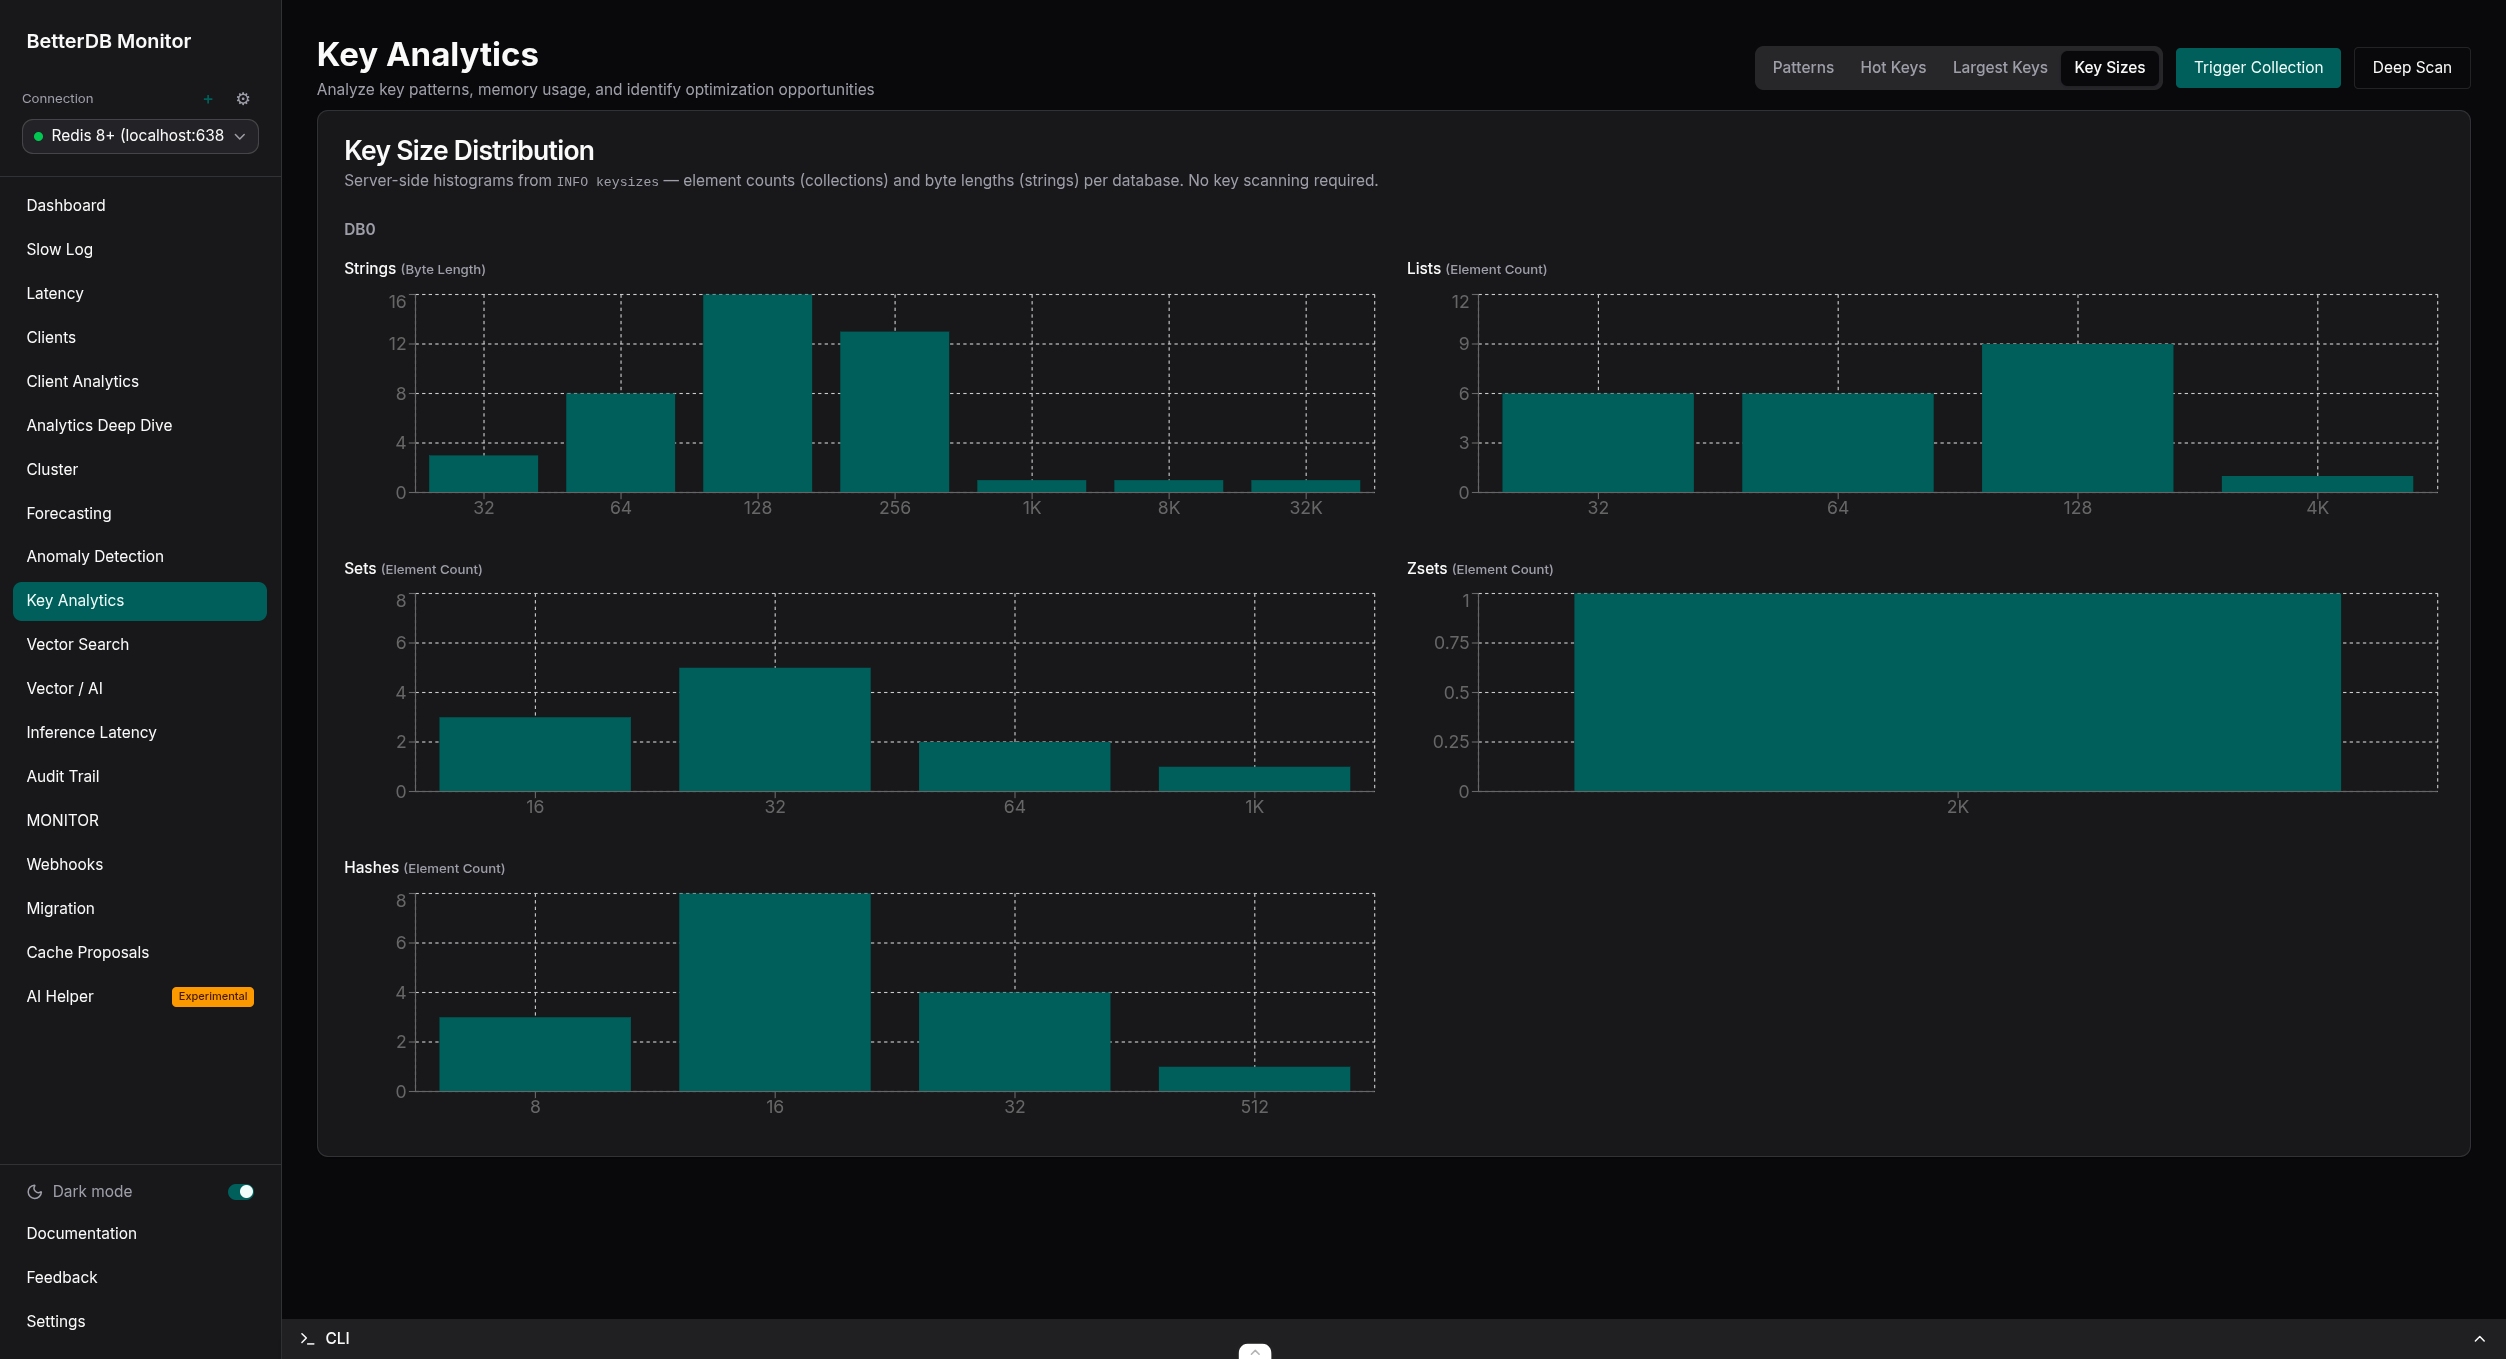
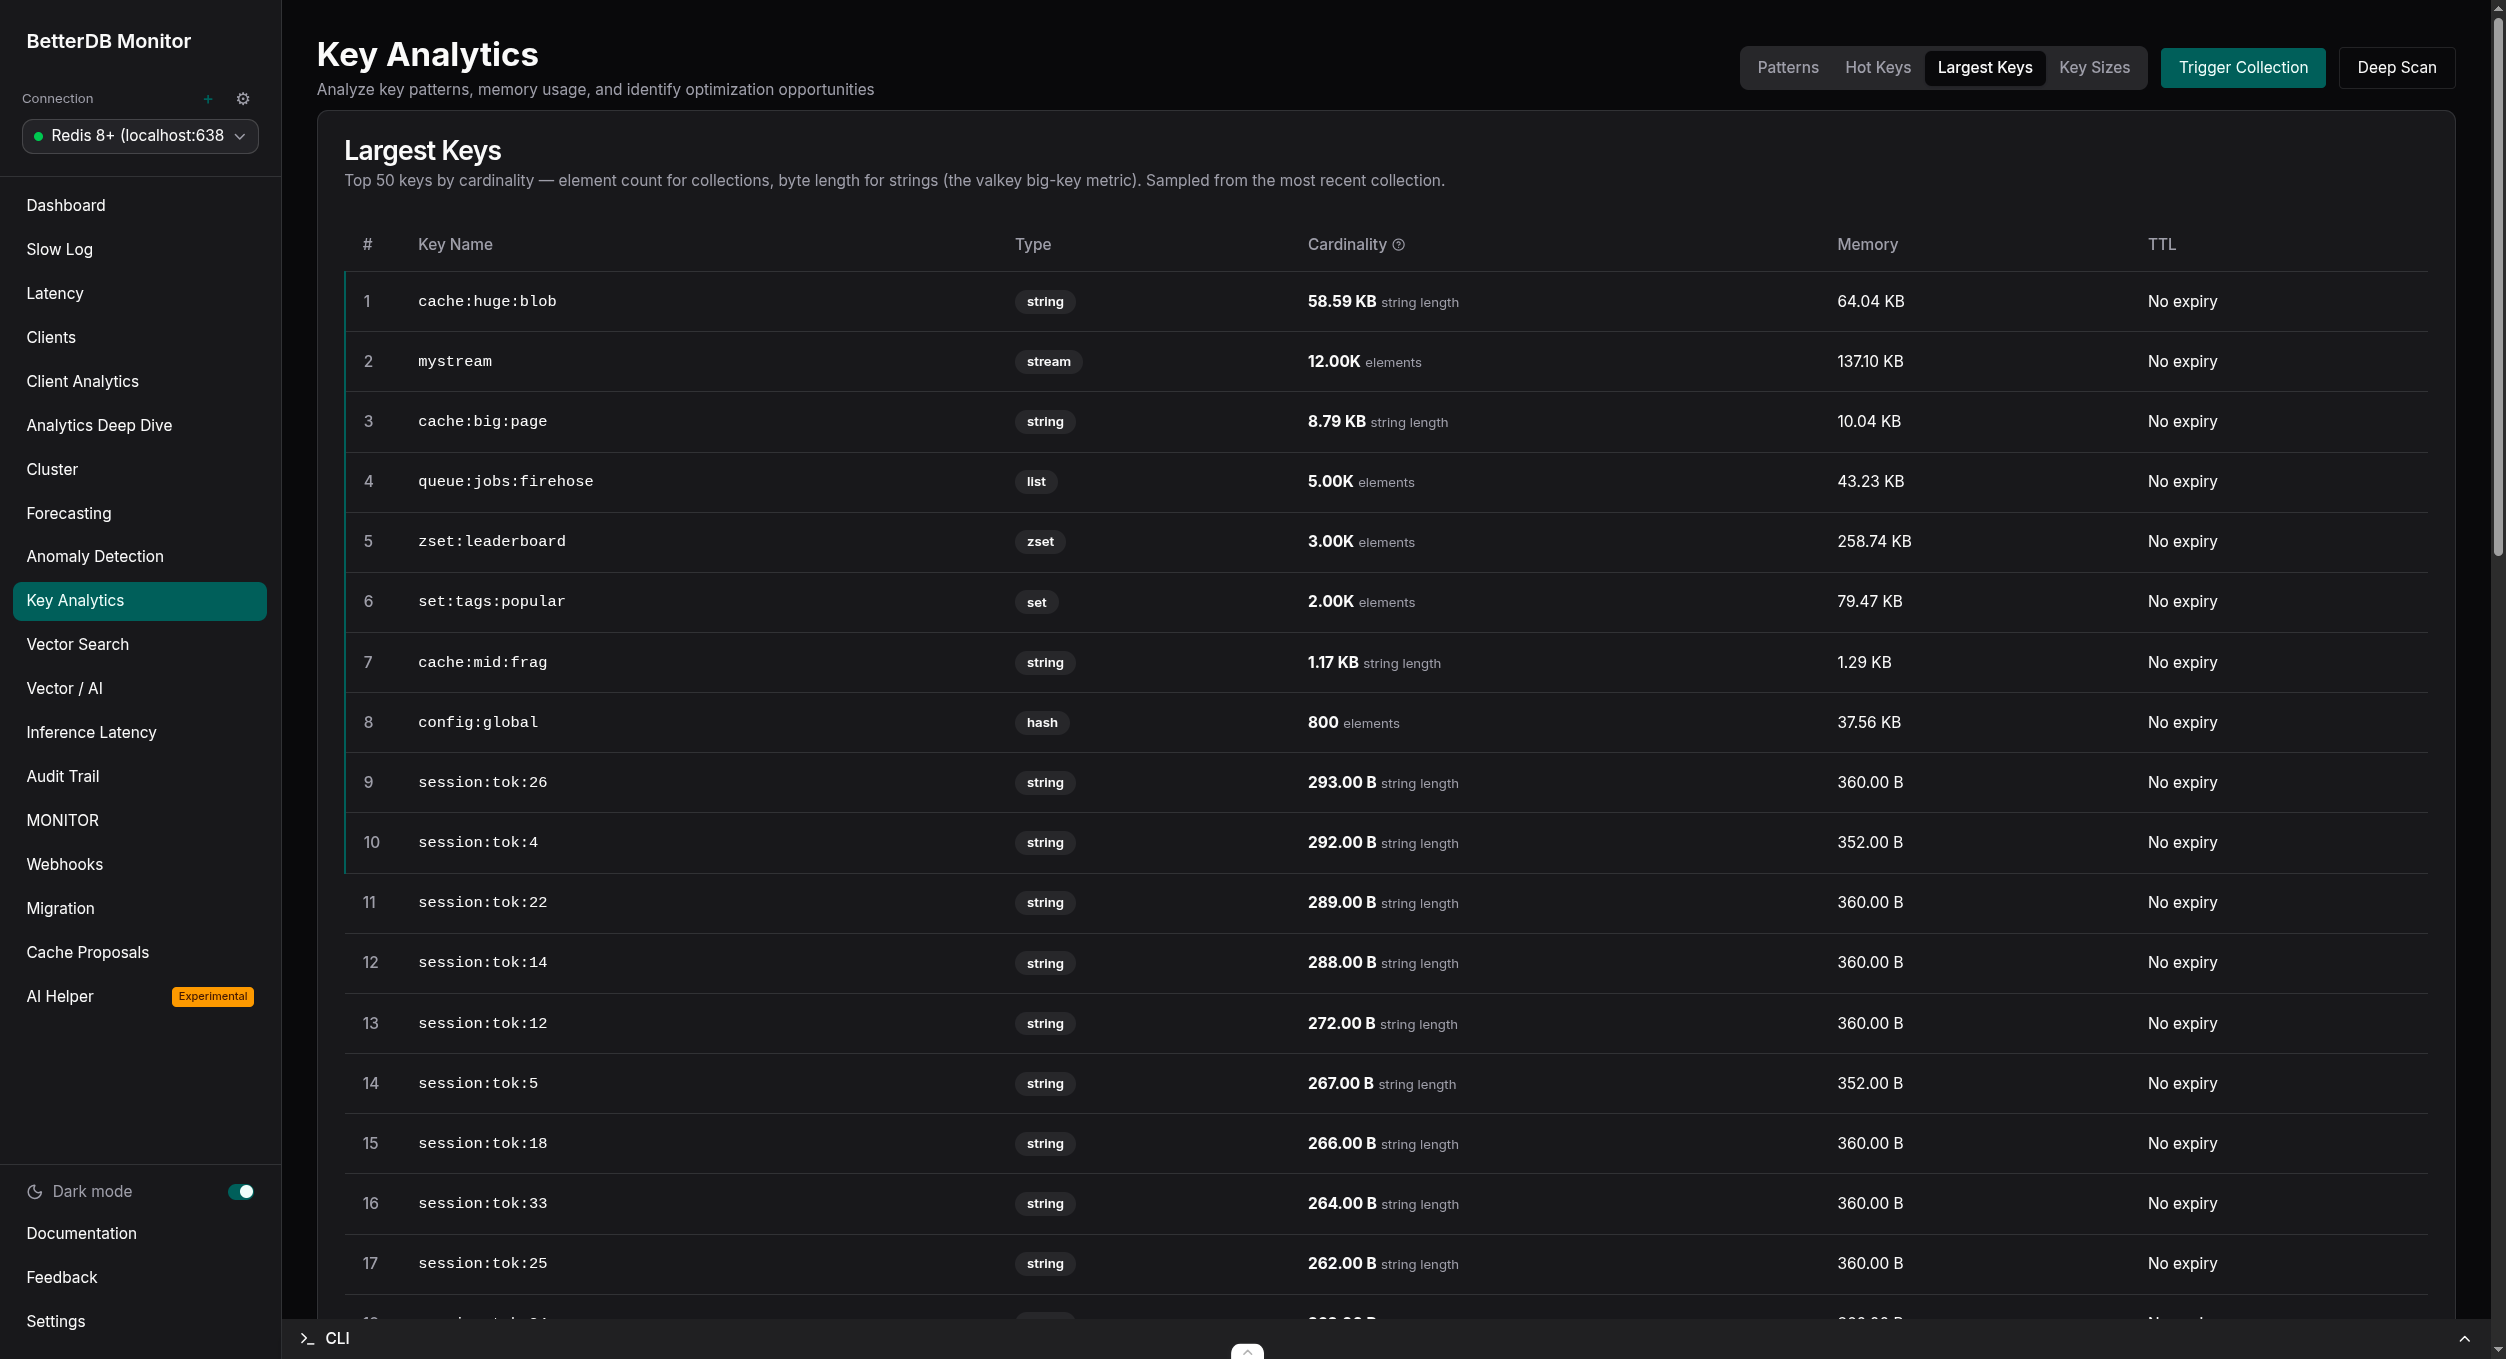
docs(readme): switch hero to Largest Keys screenshot

diff --git a/README.md b/README.md
@@ -16,7 +16,7 @@ BetterDB persists what Valkey throws away - slowlogs, command patterns, client a
 
 BetterDB is built by [BetterDB Inc.](https://betterdb.com), a public benefit company operating under the [OCV Open Charter](https://github.com/OpenCoreVentures/ocv-public-benefit-company).
 
-![BetterDB Monitor - Key Analytics with per-type key size distribution histograms](docs/assets/readme-hero.png)
+![BetterDB Monitor - Key Analytics showing the largest keys by cardinality with type, memory, and TTL](docs/assets/readme-hero.png)
 
 ## Quick Start (Docker)
 
